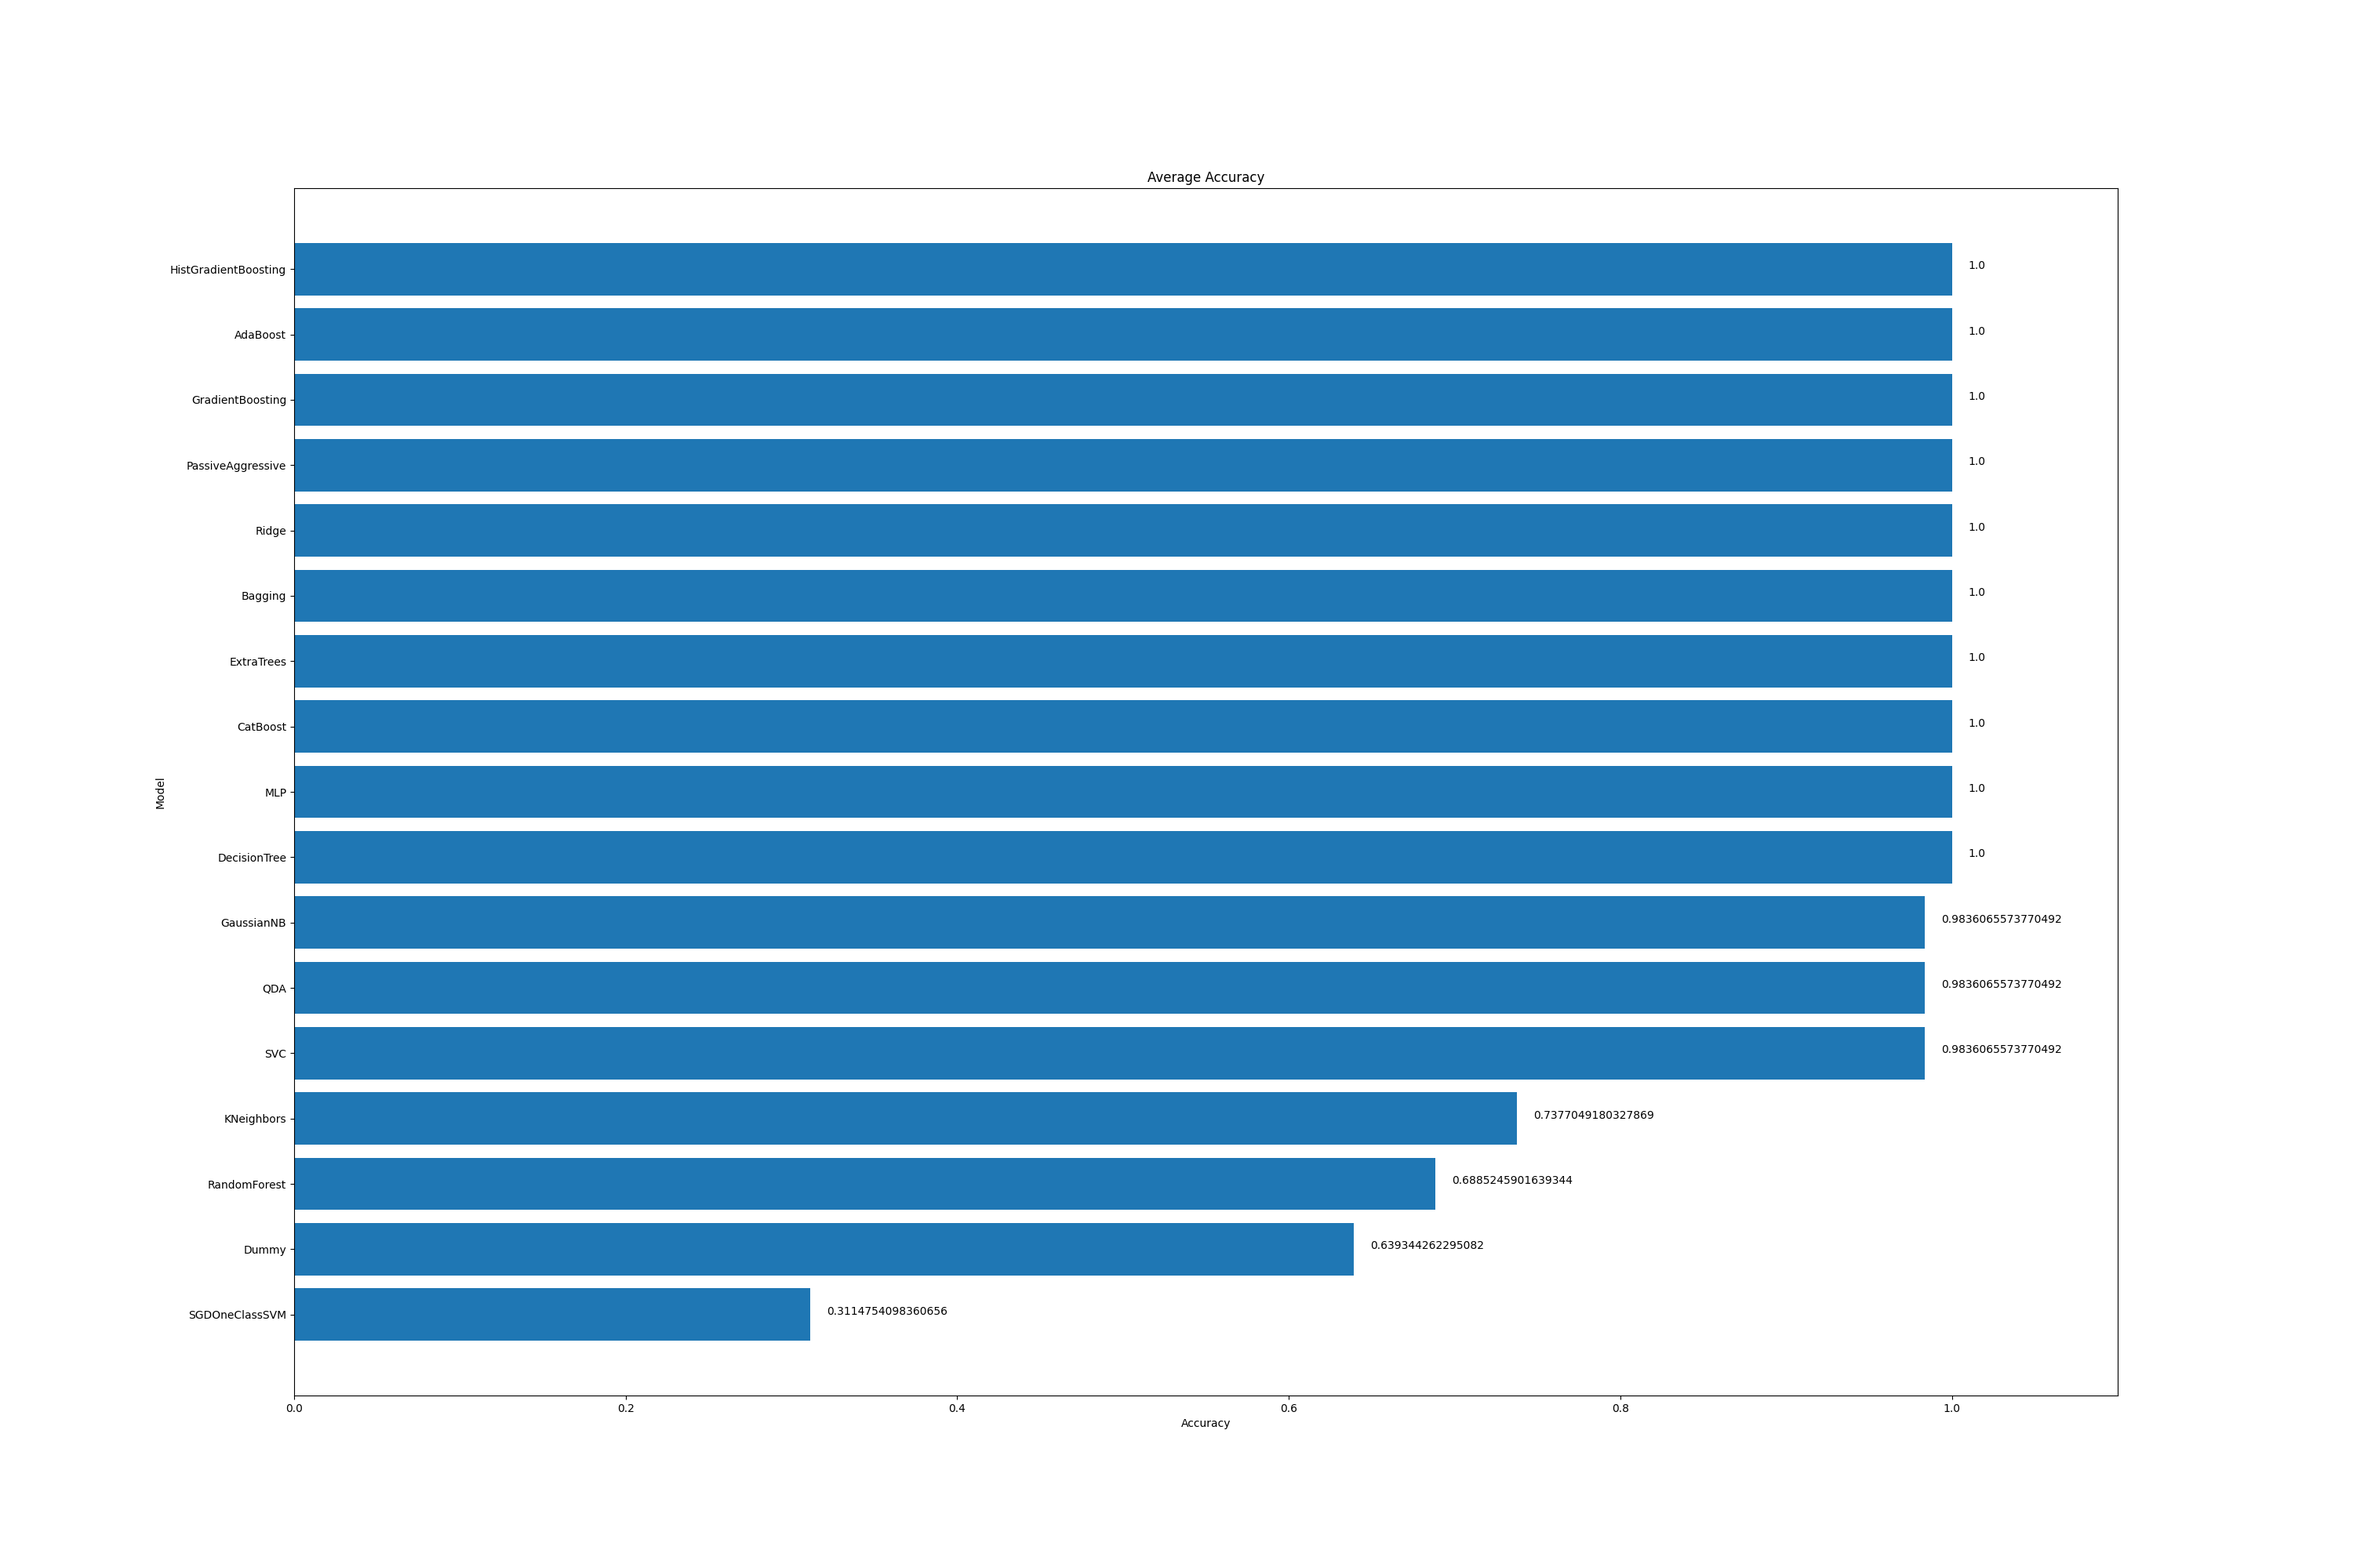
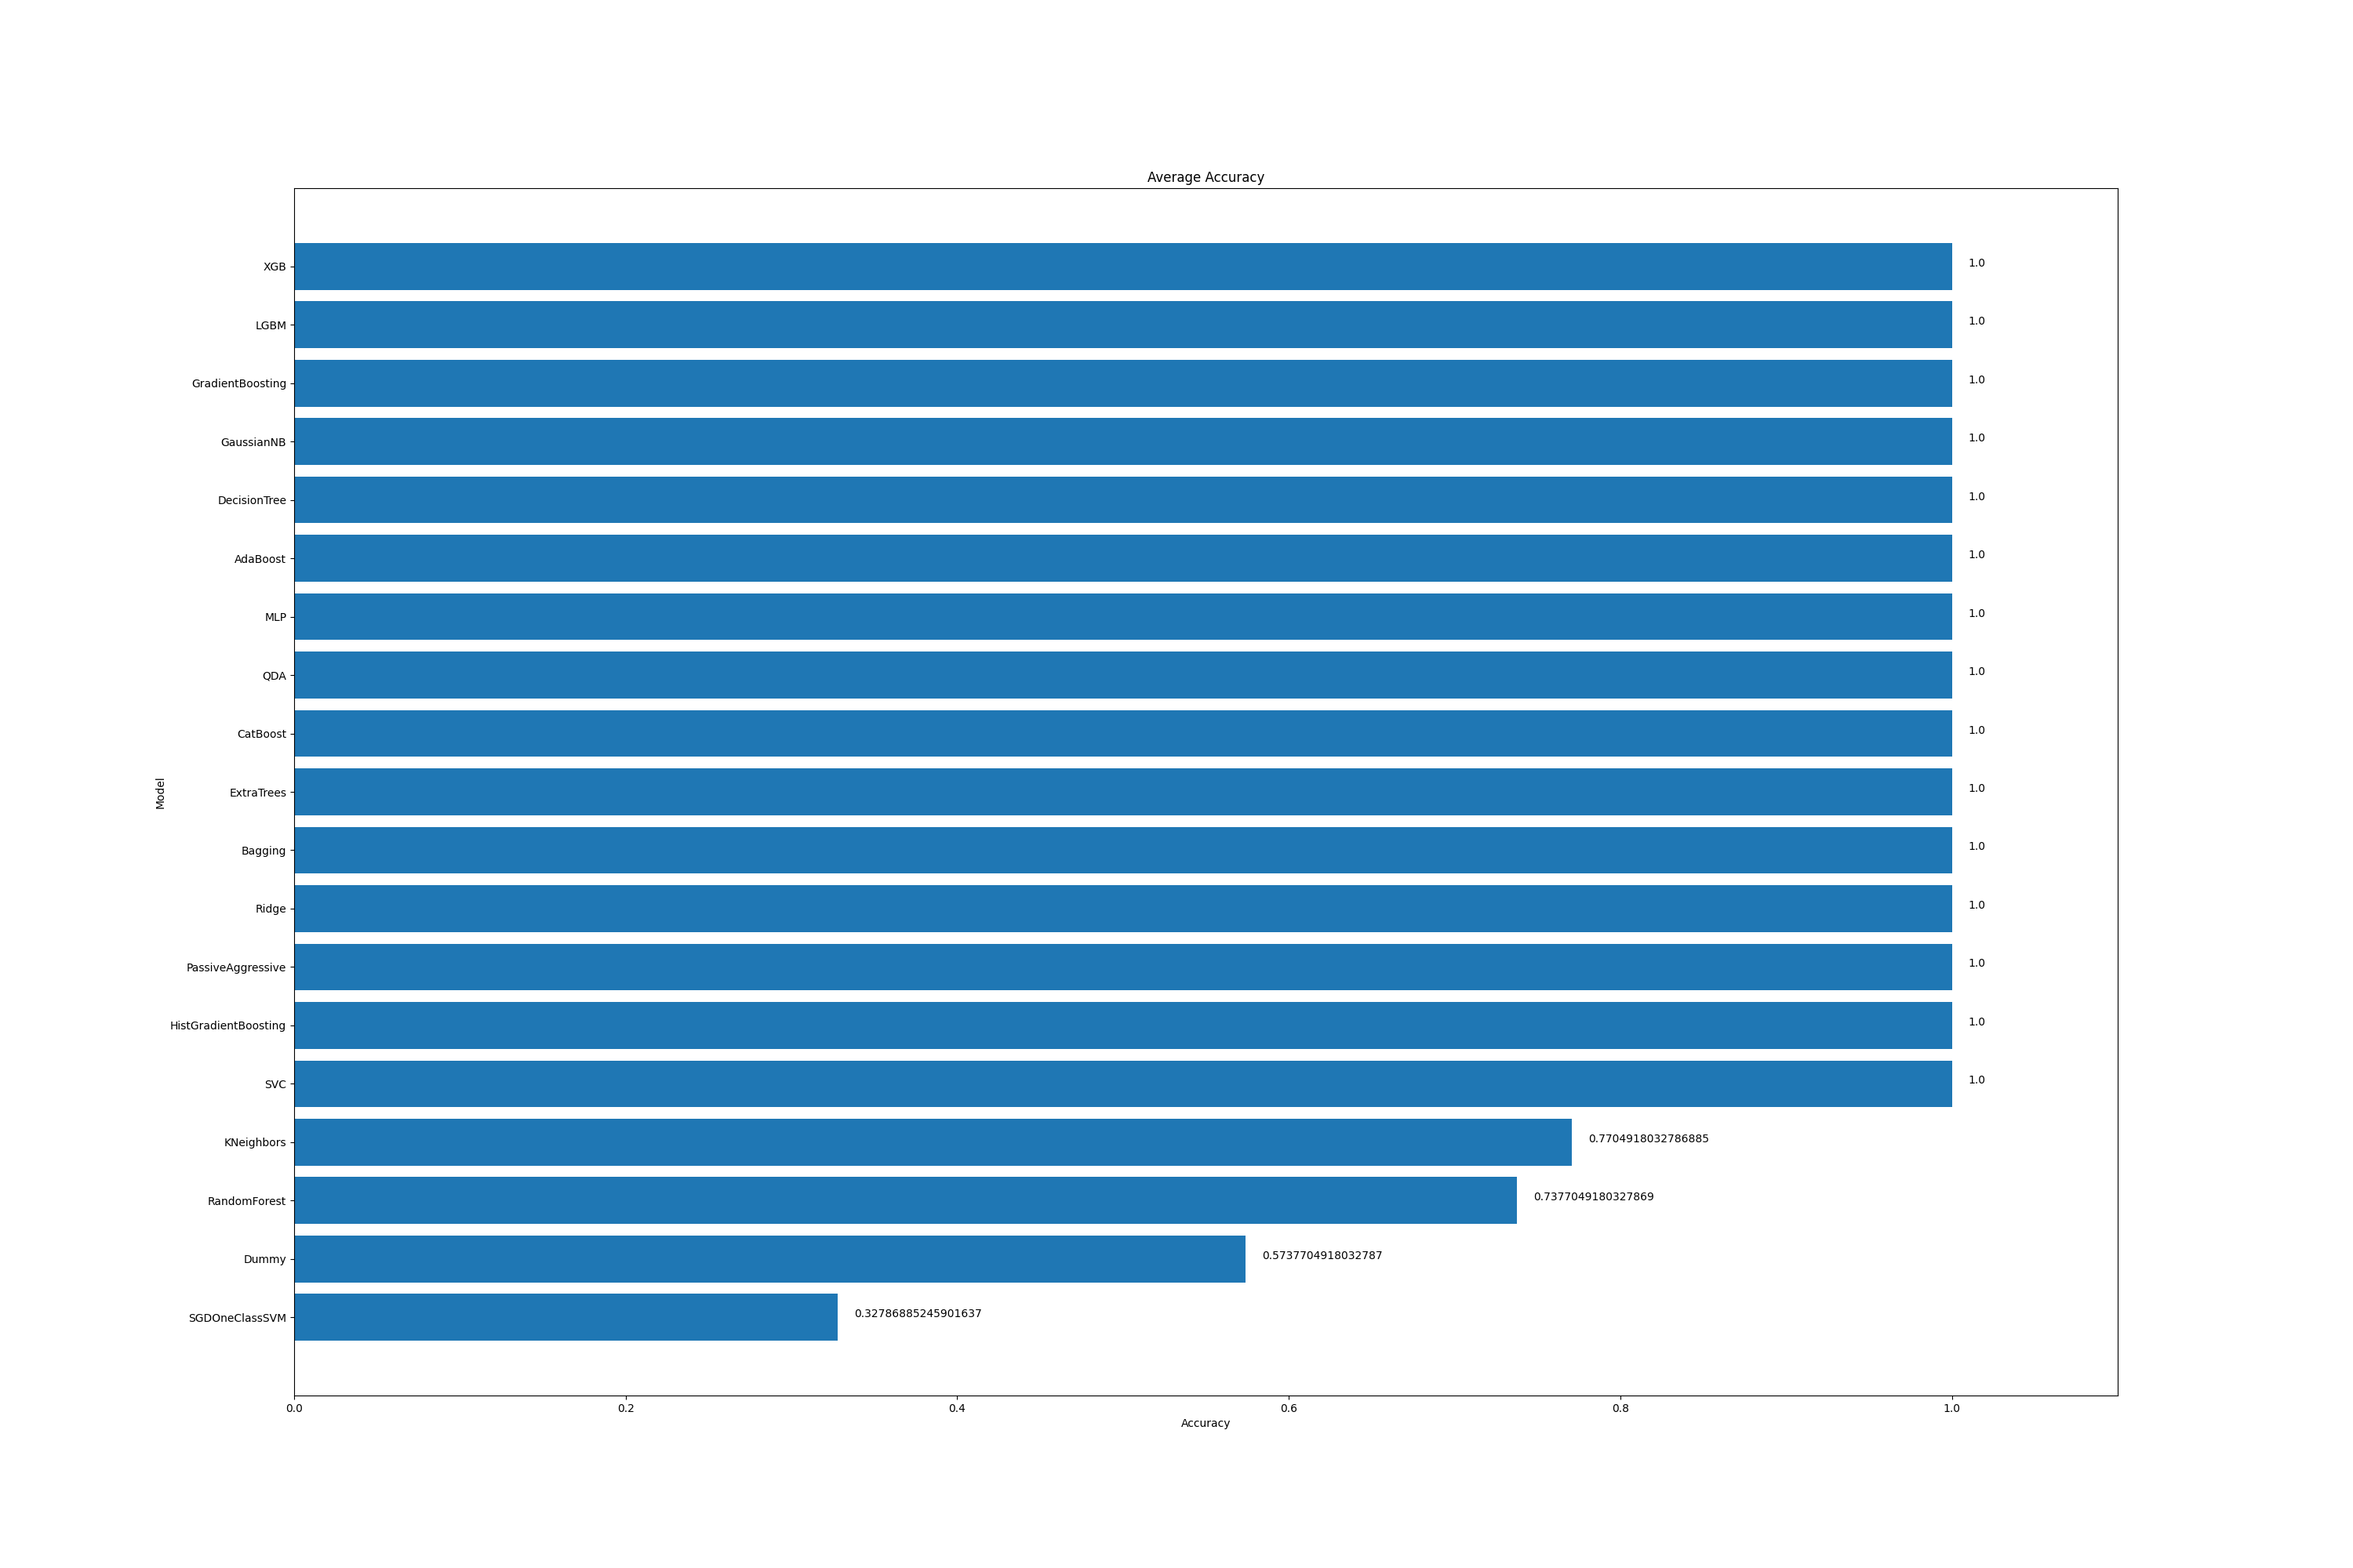
add xgb and lgb succesfully

Changed region(s): [[0.093, 0.186, 0.837, 0.496], [0.093, 0.527, 0.837, 0.868], [0.093, 0.837, 0.124, 0.868]]

diff --git a/ptf.py b/ptf.py
@@ -70,6 +70,8 @@ model_options = {
     'SGDOneClassSVM': SGDOneClassSVM(),
     'Dummy': DummyClassifier(),
     'HistGradientBoosting': HistGradientBoostingClassifier(),
+    'LGBM': LGBMClassifier(),
+    'XGB': XGBClassifier()
 }
 
 predictions_ops = ['cath', 'lad', 'lcx', 'rca', 'vhd', 'rwma']
@@ -217,12 +219,28 @@ with Progress(SpinnerColumn(), BarColumn(), TimeElapsedColumn(), TextColumn('[gr
             for index2, prediction_op in enumerate(predictions_ops):
                 # fit model 
                 time_before_fit = time.perf_counter_ns()
-                model = model_object.fit(x_train, y_train[prediction_op])
-                time_after_fit = time.perf_counter_ns()
+                
+                model = None
+                if model_name == 'LGBM':
+                    if prediction_op == 'vhd' or prediction_op == 'rwma':
+                        model = LGBMClassifier(objective="multiclass", verbose=-1)
+                    else:
+                        model = LGBMClassifier(objective="binary", verbose=-1)
+                elif model_name == 'XGB':
+                    if prediction_op == 'vhd' or prediction_op == 'rwma':
+                        model = XGBClassifier(objective="multi:softmax", num_class=4)
+                    else:
+                        model = XGBClassifier()
+                else:
+                    model = model_object
 
+                model.fit(x_train, y_train[prediction_op])
+
+                time_after_fit = time.perf_counter_ns()
                 time_to_fit = time_after_fit - time_before_fit
 
                 progress.update(progresstotal, description=f'STAGE: TRIAL {trial}, {model_name}, {prediction_op}')
+
                 predictions = model.predict(x_test)
                 progress.advance(progresstotal, 5)
 
